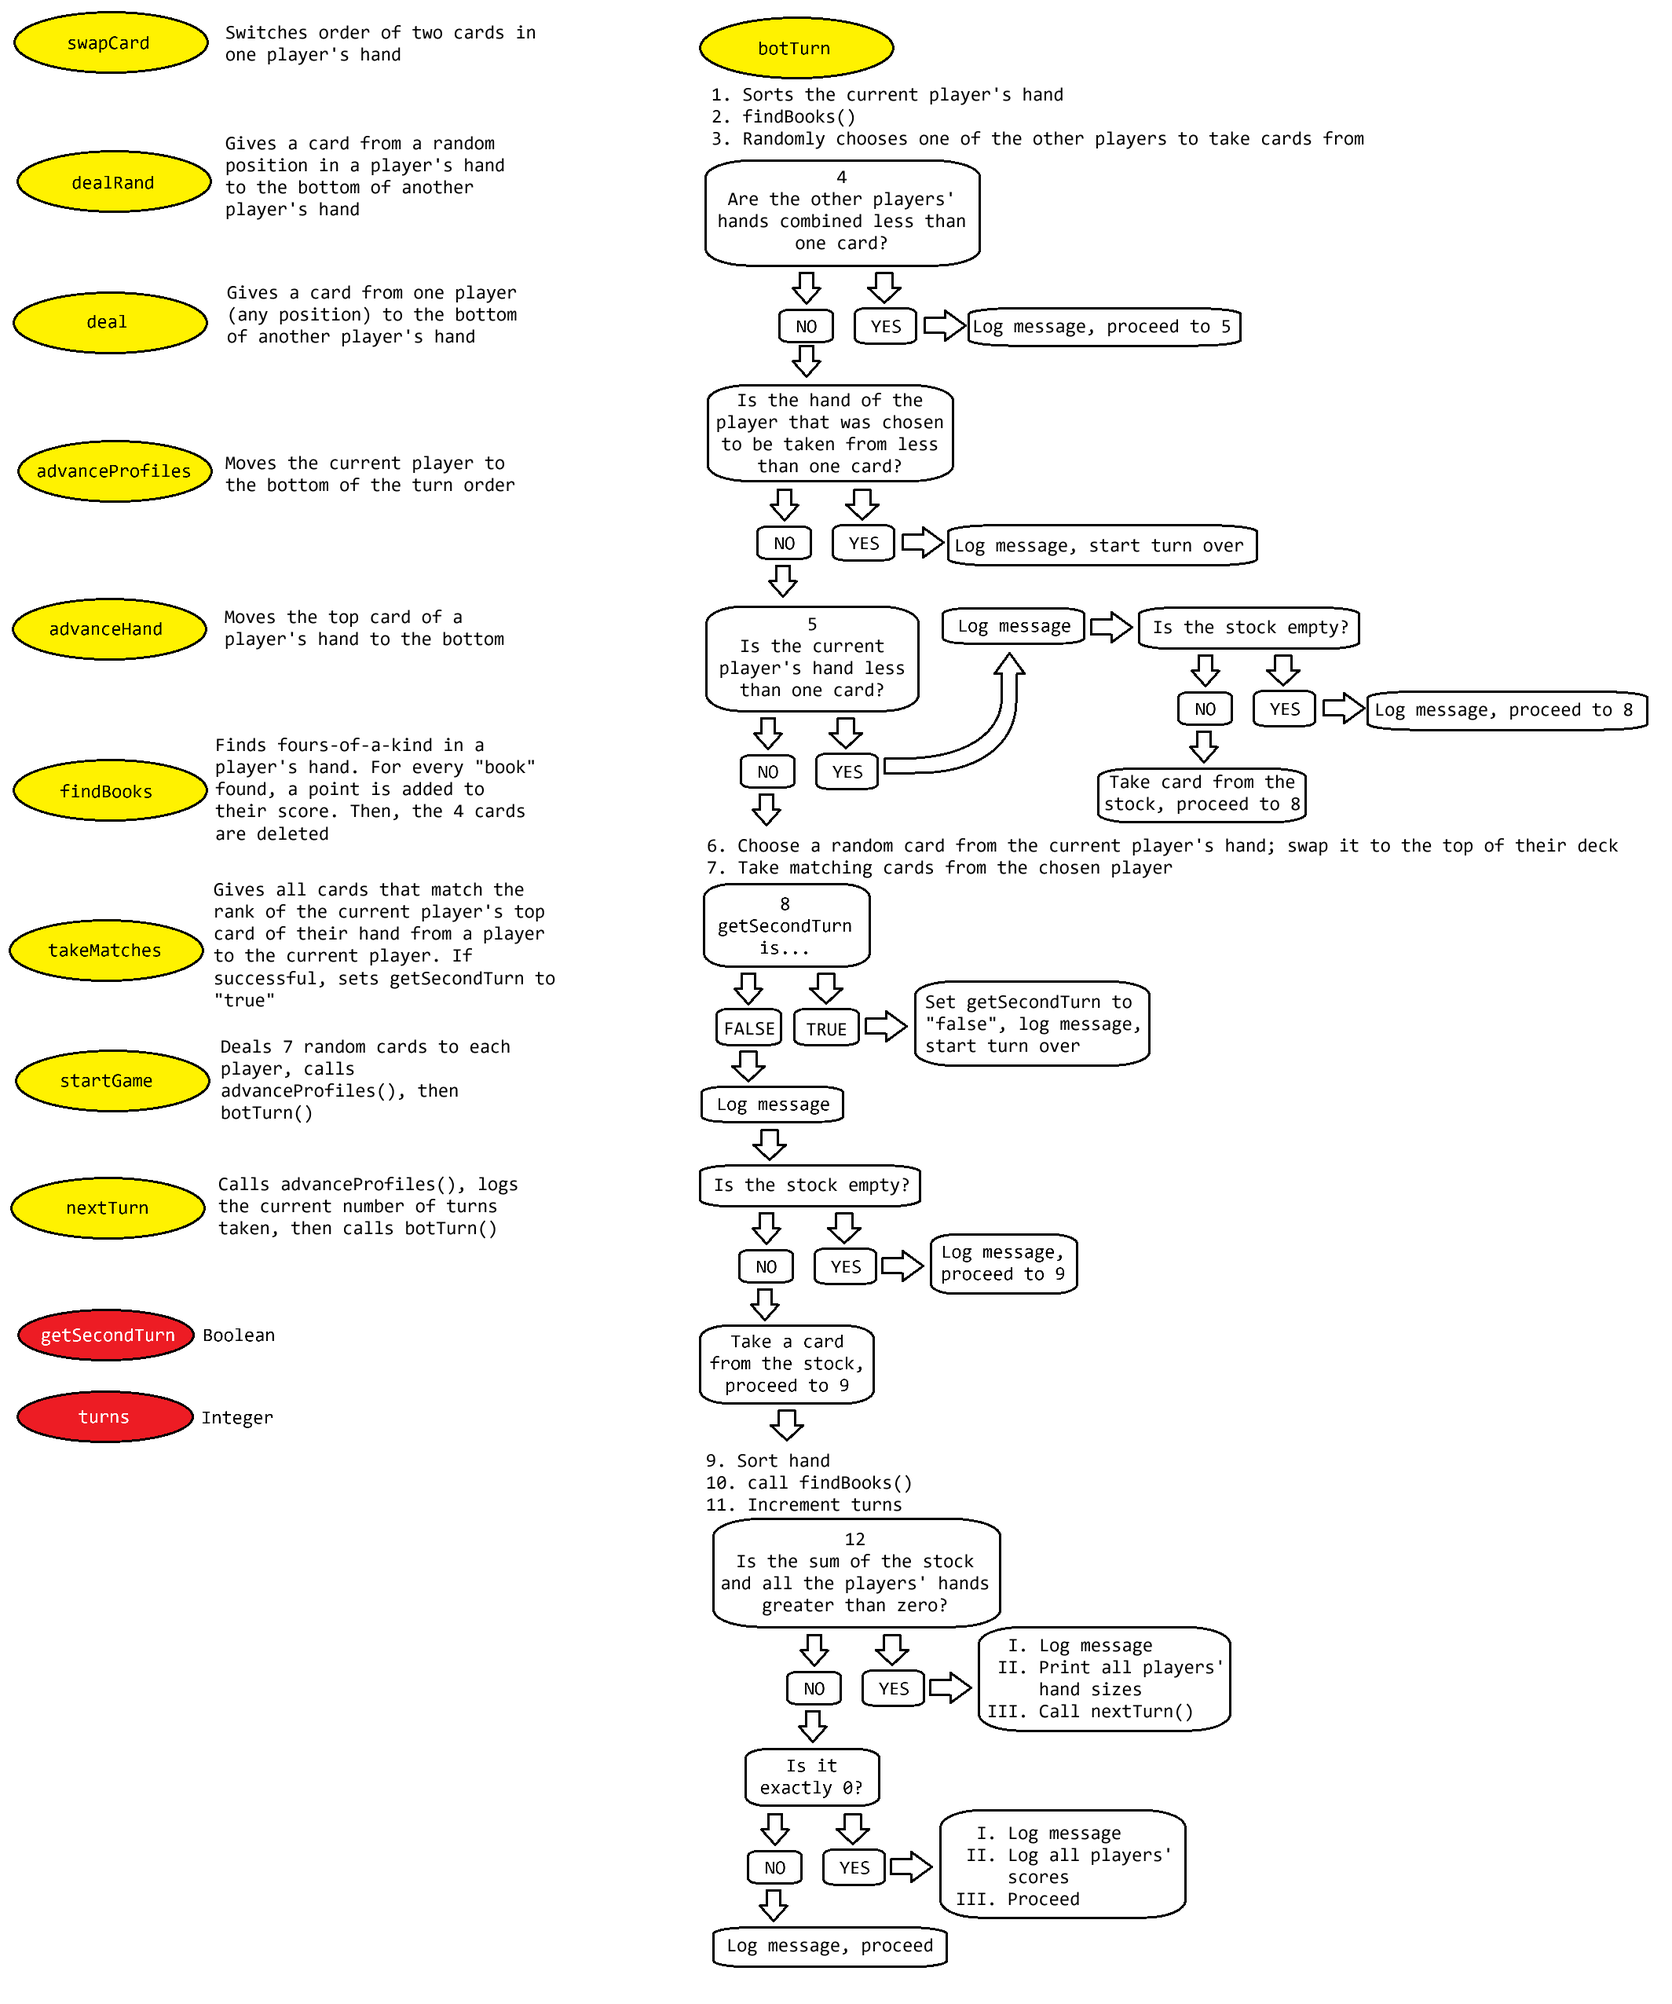
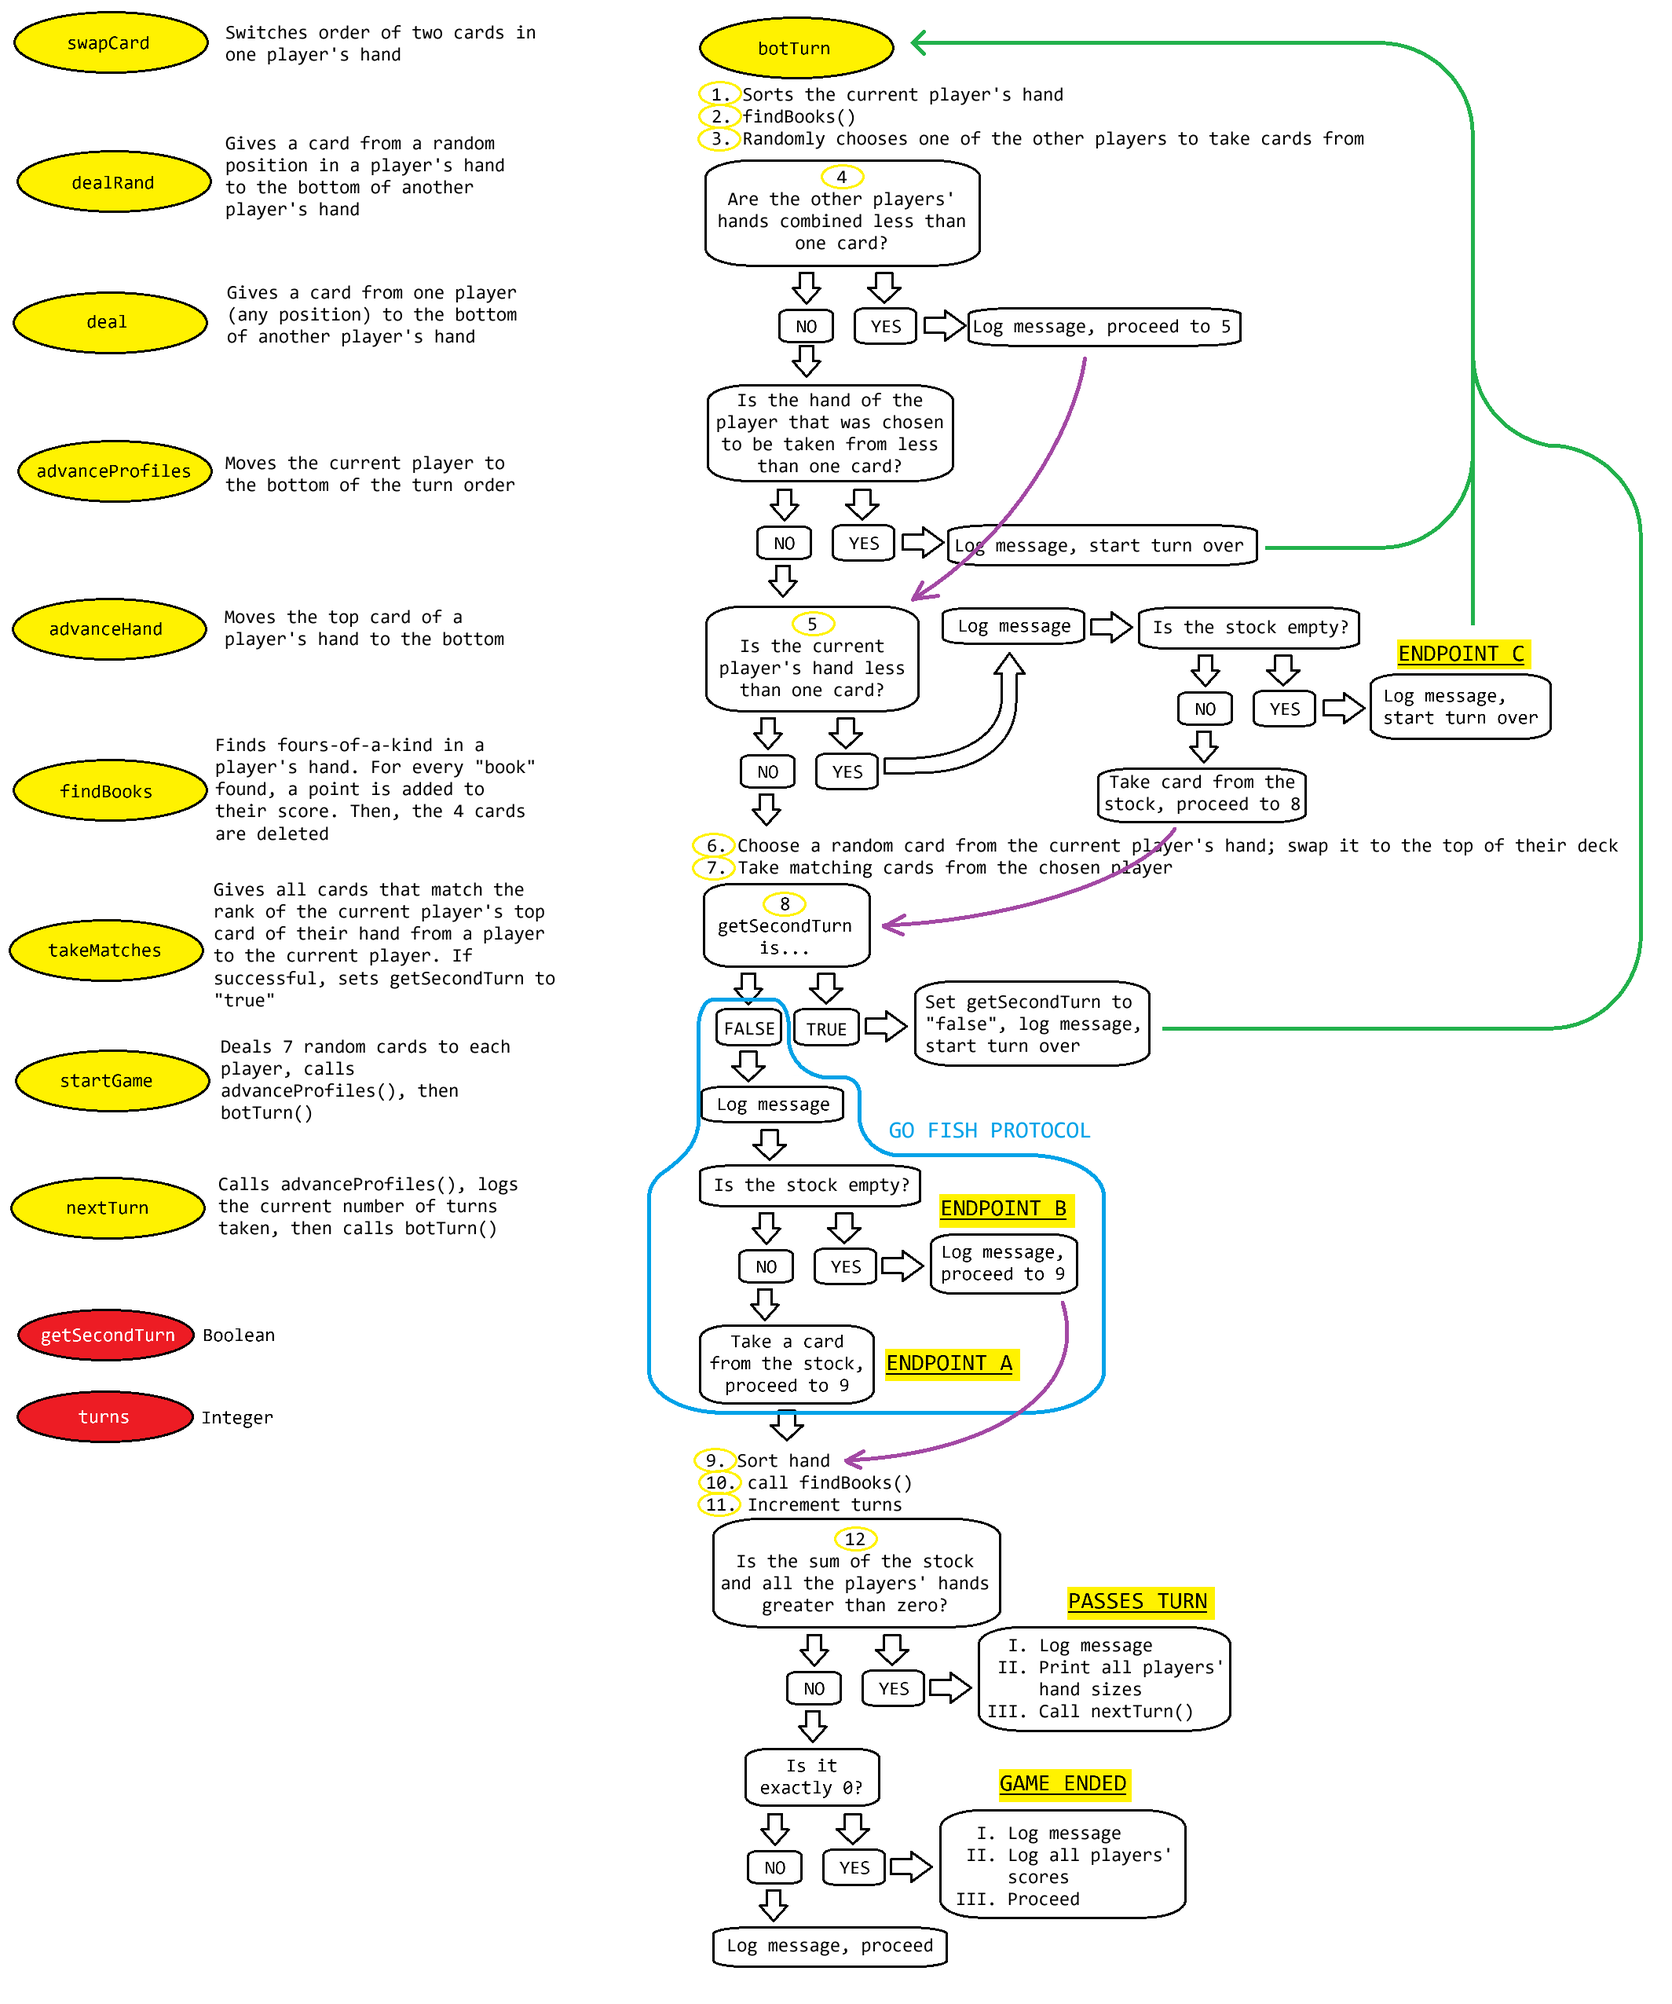
To make an omelette, one must break eggs

diff --git a/index.js b/index.js
@@ -1,3 +1,6 @@
+// Variables & arrays
+
+
 // I DO NOT KNOW WHY, BUT PLAYER'S HANDS
 // MUST BE SORTED BEFORE THE findBooks()
 // FUNCTION IS CALLED
@@ -10,7 +13,7 @@ var stock = [
     {"name": "2♥",     "value": "2"    }, // index: 0
     {"name": "3♥",     "value": "3"    }, // index: 1
     {"name": "4♥",     "value": "4"    }, // index: 2
-    {"name": "5♥",     "value": "5"    }, // index: 3
+    /* {"name": "5♥",     "value": "5"    }, // index: 3
     {"name": "6♥",     "value": "6"    }, // index: 4
     {"name": "7♥",     "value": "7"    }, // index: 5
     {"name": "8♥",     "value": "8"    }, // index: 6
@@ -18,13 +21,13 @@ var stock = [
     {"name": "10♥",    "value": "10"   }, // index: 8
     {"name": "J♥",     "value": "11"   }, // index: 9
     {"name": "Q♥",     "value": "12"   }, // index: 10
-    {"name": "K♥",     "value": "13"   }, // index: 11
+    {"name": "K♥",     "value": "13"   }, // index: 11 */
     {"name": "A♥",     "value": "14"   }, // index: 12
 
     {"name": "2♣",     "value": "2"    }, // index: 13
     {"name": "3♣",     "value": "3"    }, // index: 14
     {"name": "4♣",     "value": "4"    }, // index: 15
-    {"name": "5♣",     "value": "5"    }, // index: 16
+    /* {"name": "5♣",     "value": "5"    }, // index: 16
     {"name": "6♣",     "value": "6"    }, // index: 17
     {"name": "7♣",     "value": "7"    }, // index: 18
     {"name": "8♣",     "value": "8"    }, // index: 19
@@ -32,13 +35,13 @@ var stock = [
     {"name": "10♣",    "value": "10"   }, // index: 21
     {"name": "J♣",     "value": "11"   }, // index: 22
     {"name": "Q♣",     "value": "12"   }, // index: 23
-    {"name": "K♣",     "value": "13"   }, // index: 24
+    {"name": "K♣",     "value": "13"   }, // index: 24 */
     {"name": "A♣",     "value": "14"   }, // index: 25
 
     {"name": "2♦",     "value": "2"    }, // index: 26
     {"name": "3♦",     "value": "3"    }, // index: 27
     {"name": "4♦",     "value": "4"    }, // index: 28
-    {"name": "5♦",     "value": "5"    }, // index: 29
+   /*  {"name": "5♦",     "value": "5"    }, // index: 29
     {"name": "6♦",     "value": "6"    }, // index: 30
     {"name": "7♦",     "value": "7"    }, // index: 31
     {"name": "8♦",     "value": "8"    }, // index: 32
@@ -46,13 +49,13 @@ var stock = [
     {"name": "10♦",    "value": "10"   }, // index: 34
     {"name": "J♦",     "value": "11"   }, // index: 35
     {"name": "Q♦",     "value": "12"   }, // index: 36
-    {"name": "K♦",     "value": "13"   }, // index: 37
+    {"name": "K♦",     "value": "13"   }, // index: 37 */
     {"name": "A♦",     "value": "14"   }, // index: 38
 
     {"name": "2♠",     "value": "2"    }, // index: 39
     {"name": "3♠",     "value": "3"    }, // index: 40
     {"name": "4♠",     "value": "4"    }, // index: 41
-    {"name": "5♠",     "value": "5"    }, // index: 42
+   /*  {"name": "5♠",     "value": "5"    }, // index: 42
     {"name": "6♠",     "value": "6"    }, // index: 43
     {"name": "7♠",     "value": "7"    }, // index: 44
     {"name": "8♠",     "value": "8"    }, // index: 45
@@ -60,7 +63,7 @@ var stock = [
     {"name": "10♠",    "value": "10"   }, // index: 47
     {"name": "J♠",     "value": "11"   }, // index: 48
     {"name": "Q♠",     "value": "12"   }, // index: 49
-    {"name": "K♠",     "value": "13"   }, // index: 50
+    {"name": "K♠",     "value": "13"   }, // index: 50 */
     {"name": "A♠",     "value": "14"   }  // index: 51
 ];
 
@@ -74,12 +77,17 @@ var profiles = [
     {"name": "Bob",     "hand": player2,    "score": 0}
 ];
 
-var startingCardCount = 7;
+// 2--3 players: 7 cards
+// 4--5 players: 5 cards
+var startingCardCount = 2;
 
 var getSecondTurn = false;
 
-var turns = 1;
+var turns = 0;
 
+var skipRestOfTurn = false;
+
+// Other functions
 // Swaps two cards' positions in an index
 // Took this guy's code: https://stackoverflow.com/a/2440720/25562183
 function swapCard(array, indexA, indexB) {
@@ -162,114 +170,150 @@ function findBooks() {
 
 // takeMatches(profiles[randProfileIndex], profiles[0]);
 function takeMatches(fromPlayer, toPlayer) {
+    console.log(" > takeMatches called");
     let i = 0;
     while (i < 51 && fromPlayer.hand.length >= 1) {
         if (toPlayer.hand[0].value == fromPlayer.hand[0].value) {
+            console.log("    Match found");
             deal(0, fromPlayer.hand, toPlayer.hand);
-            console.log(`${fromPlayer.name} gave ${toPlayer.name} the ${toPlayer.hand[(toPlayer.hand.length)-1].name}.`);
+            console.log(`    ${fromPlayer.name} gave ${toPlayer.name} the ${toPlayer.hand[(toPlayer.hand.length)-1].name}.`);
+            console.log(`    ${profiles[0].name} gets a second turn...`);
             getSecondTurn = true;
         } else {
+            console.log("    Cycling their hand...");
             advanceHand(fromPlayer.hand);
             i++;
         }
     }
+    console.log(" > takeMatches exited");
 }
 
-// TASK I: Deals seven cards to each player
 function startGame() {
     console.log("%cStarted game!", "color:green");
     console.log(`${profiles[0].name} is the dealer.\nThey deal ${startingCardCount} cards to everyone...`);
     for (i = 1; i <= startingCardCount * profiles.length; i++) {
-        // console.log(`Dealing to: ${profiles[0].name}`);
         dealRand(stock, profiles[0].hand);
         advanceProfiles();
     }
+    console.log(`The play is passed to ${profiles[1].name}.`);
     advanceProfiles();
-    console.log(`The play is passed to ${profiles[0].name}.`);
-    console.log(`%cTurn: ${turns}`, "color:red");
     botTurn();
 }
 
-function nextTurn() {
+/* function nextTurn() {
     advanceProfiles();
     console.log(`%cTurn: ${turns}`, "color:red");
     console.log(`Current player: ${profiles[0].name}.`);
-    botTurn();
-}
+    //botTurn();
+} */
 
 function botTurn() {
-    // TASK I: Check for books
+    turns++;
+    console.log(`%cTurn: ${turns}`, "color:red");
+
+    console.log("%cStep 1", "color:yellow");
+    // 1
+    console.log("    Sorting hand...");
     profiles[0].hand.sort((a,b) => a.value - b.value);
+
+    console.log("%cStep 2", "color:yellow");
+    // 2
+    console.log("    Checking for books...");
     findBooks();
 
-    // TASK II: Choose a random player
+    console.log("%cStep 3", "color:yellow");
+    // 3
+    console.log("    Choosing a player...");
     var randProfileIndex = Math.floor(Math.random() * (profiles.length - 1) + 1);
+    
+    console.log("%cStep 4", "color:yellow");
+    // 4
     if (profiles[1].hand.length + profiles[2].hand.length < 1) {
-        console.log(`${profiles[0].name} can't play, no one else has any cards!`);
+        console.log("%c    The other players have no cards!", "color:orange");
     } else if (profiles[randProfileIndex].hand.length < 1) {
-        console.log(`${profiles[0].name} chose ${profiles[randProfileIndex].name}, but they have no cards.`);
-        console.log("So they try again!");
+        console.log("%c    The chosen player has no cards!", "color:orange");
+        console.log("%c    SCENARIO A: Restarting turn...", "color:green");
+        skipRestOfTurn = true;
         botTurn();
     } else {
-        console.log(`${profiles[0].name} chooses to take from: ${profiles[randProfileIndex].name}.`);
+        console.log("    The other players have cards.");
     }
 
-    // TASK III: Choose a random card, bring it to the top
+    console.log("%cStep 5", "color:yellow");
+    // 5
     // Sometimes players can get down to 0 cards in the middle of their turn by making books
+    console.log(`    Checking if ${profiles[0].name} has cards...`);
     if (profiles[0].hand.length < 1) {
-        console.log(`${profiles[0].name} must start by going fishing...`);
+        console.log(`%c    ${profiles[0].name} has an empty hand!!`, "color:orange");
         if (stock.length < 1) {
-            console.log("The stock is empty");
-            console.log("%cENDPOINT C", "color:yellow");
-            //return;
+            console.log("%cThe stock is empty!", "color:orange");
         } else {
+            console.log(`    %c${profiles[0].name} draws from the stock...`);
             dealRand(stock, profiles[0].hand);
+            console.log("%c    SCENARIO B: Restarting turn...", "color:green");
+            skipRestOfTurn = true;
+            botTurn();
         }
     } else {
+        console.log(`    ${profiles[0].name} has cards in their hand...`);
+        console.log("%cStep 6", "color:yellow");
+        // 6
+        console.log("    Choosing a rank to pick...");
         swapCard(profiles[0].hand, 0, (Math.floor(Math.random() * profiles[0].hand.length)));
-        console.log(`${profiles[0].name} wants ${profiles[0].hand[0].value}s.`);
+        // console.log(`${profiles[0].name} wants ${profiles[0].hand[0].value}s.`);
 
-        // TASK IV: Take all matching cards from the player
-        console.log(`${profiles[randProfileIndex].name} looks through their cards...`);
+        console.log("%cStep 7", "color:yellow");
+        // 7
+        console.log("    Taking matches...");
         takeMatches(profiles[randProfileIndex], profiles[0]);
     }
     
-    // TASK V: If player got at least 1 match, they get to go again
+    console.log("%cStep 8", "color:yellow");
+    // 8
     if (getSecondTurn == true) {
+        console.log("Second turn allowed;\ngetSecondTurn = false;");
         getSecondTurn = false;
+        console.log("%c    SCENARIO C: Restarting turn...", "color:green");
+        skipRestOfTurn = true;
         botTurn();
     } else {
-        // GO FISH PROTOCOL
-        console.log(`${profiles[0].name} goes fishing!`);
+        console.log("%c    GO FISH PROTOCOL", "color:blue");
         if (stock.length < 1) {
-            console.log(`${profiles[0].name} tried, but the stock is empty!`);
-            console.log("%cENDPOINT B", "color:yellow");
+            console.log("%cThe stock is empty!", "color:blue");
         } else {
+            console.log(`    %c${profiles[0].name} goes fishing!`, "color:blue");
             dealRand(stock, profiles[0].hand);
-            console.log("%cENDPOINT A", "color:yellow");
         }
     }
 
-    // TASK OMEGA: Check for books, pass turn
-    profiles[0].hand.sort((a,b) => a.value - b.value);
-    findBooks();
-    turns++;
+    if (skipRestOfTurn == false) {
+        console.log("%cStep 9", "color:yellow");
+        // 9
+        console.log("    END OF TURN: Sorting hand...");
+        profiles[0].hand.sort((a,b) => a.value - b.value);
 
-    // Only pass turn if someone has cards in their hand
-    if (stock.length + player0.length + player1.length + player2.length > 0) {
-        console.log("%cPASSES TURN", "color:blue");
-        console.log(`${profiles[0].name}'s hand: ${profiles[0].hand.length}`);
-        console.log(`${profiles[1].name}'s hand: ${profiles[1].hand.length}`);
-        console.log(`${profiles[2].name}'s hand: ${profiles[2].hand.length}`);
-        nextTurn();
-    } else if (stock.length + player0.length + player1.length + player2.length == 0) {
-        console.log("%cGAME ENDED", "color:orange");
-        console.log(`${profiles[0].name}'s score: ${profiles[0].score}`);
-        console.log(`${profiles[1].name}'s score: ${profiles[1].score}`);
-        console.log(`${profiles[2].name}'s score: ${profiles[2].score}`);
-    } else {
-        console.log("%cidk man", "color:purple");
+        console.log("%cStep 10", "color:yellow");
+        // 10
+        console.log("    END OF TURN: Checking for books...");
+        findBooks();
+
+        console.log("%cStep 11", "color:yellow");
+        // 11
+        console.log("    END OF TURN: Incrementing turns...");
+        turns++;
+
+        console.log("%cStep 12", "color:yellow");
+        // 12
+        if (stock.length + player0.length + player1.length + player2.length > 0) {
+            console.log("    END OF TURN: Cards are still in play...");
+        } else if (stock.length + player0.length + player1.length + player2.length == 0) {
+            console.log("    END OF TURN: There are no cards in play!!", "color:orange");
+        }
+
+        console.log("%cEND OF TURN\nAdvancing turn order...", "color:purple");
+        advanceProfiles();
     }
 }
 
+console.log("%cGAME INITIALIZED", "color:green");
 startGame();

diff --git a/README.md b/README.md
@@ -22,10 +22,12 @@ Rules of Go-Fish (According to Bicycle.com):
 
 2. The dealer shuffles the deck, and the player to the right cuts it. The deal proceeds clockwise one card at a time, until all players have the appropriate amount of cards; For 2-3 players: 7 cards; For 4-5 players: 5 cards. The rest of the deck is left face-down at the center of the tablue and is called the "stock."
 
-3. The player clockwise to the dealer is the first to go. They choose another player to take cards from, and ask for all their cards of a rank that matches at least one card in their hand---that is, they can't ask for a rank they don't already have. If the addressed player has no cards of the specified rank, then the player whose turn it is must take a card from the top of the stock (called "going fishing") and their turn ends. Play proceeds clockwise.
+3. The player clockwise to the dealer is the first to go. They choose another player to take cards from, and ask for all their cards of a rank that matches at least one card in their hand---that is, they can't ask for a rank they don't already have. If the addressed player has no cards of the specified rank, then the player whose turn it is must take a card from the top of the stock* (called "going fishing") and their turn ends. Play proceeds clockwise.
 
 4. As long as a player doesn't have to go fish, their turn continues.
 
 5. Once a player has four-of-a-kind, called a "book," they remove the book and put in face-up in front of them. So long as they don't go fish, they continue their turn.
 
 6. If a player has no cards, they may first take a card from the stock, then their turn proceeds normally. If there are no cards in the stock, they lose and are out of the game.
+
+* If a player has cards, is told to go fish, but the stock is empty, then they stay in the game and simply don't take any cards from the empty stock.
